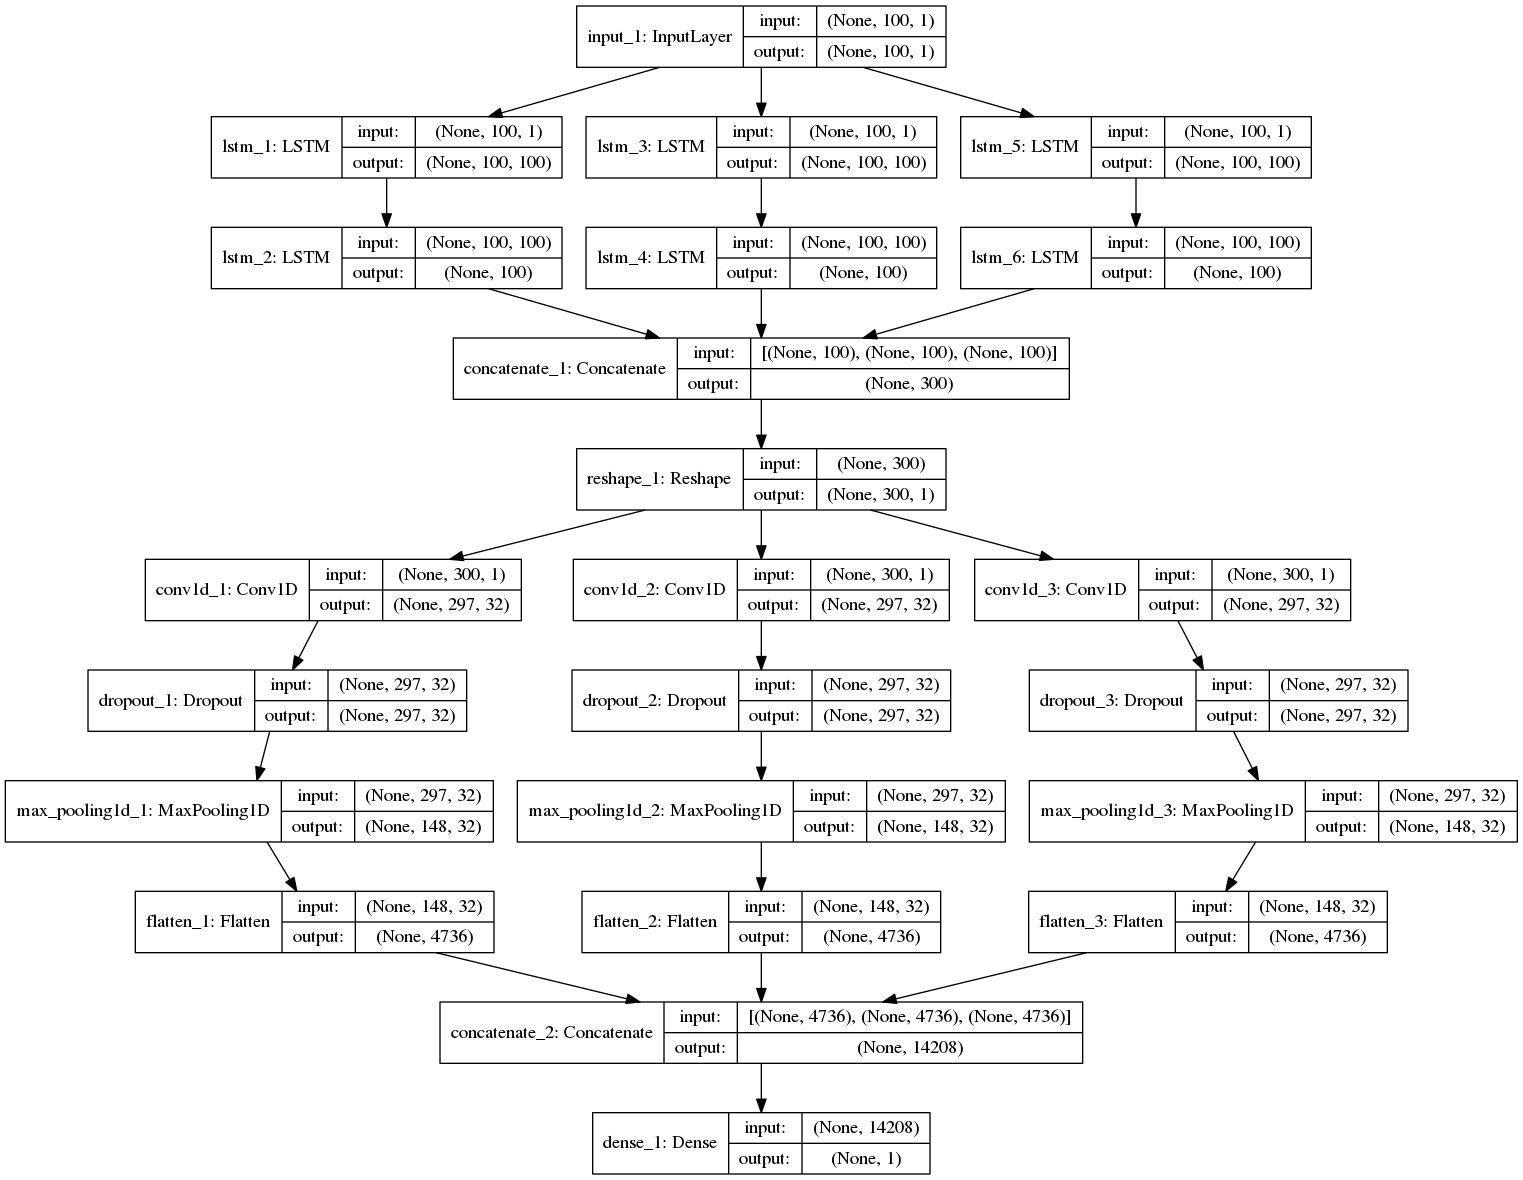
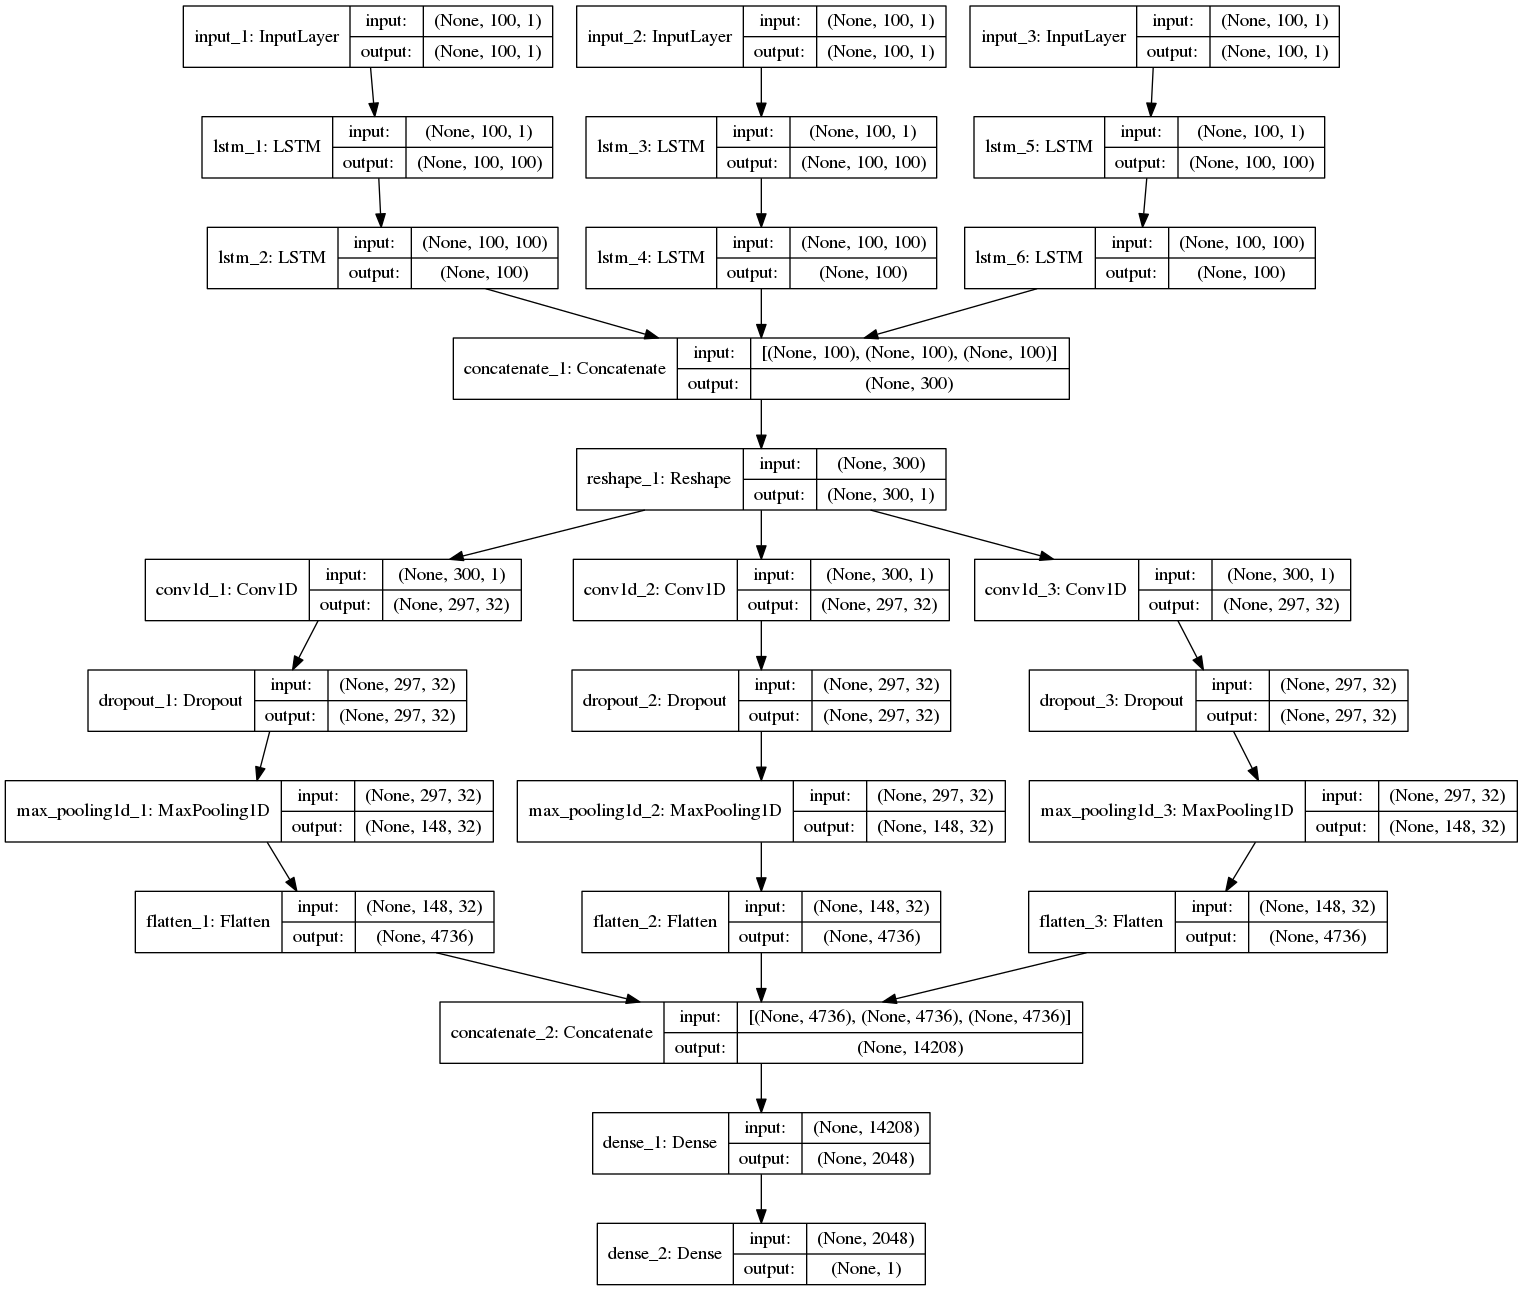
Small change in the model

Changed region(s): [[0.0, 0.0, 1.0, 1.0]]

diff --git a/Aspect_Identification/Aspect_LSTM/3_model_2.py b/Aspect_Identification/Aspect_LSTM/3_model_2.py
@@ -14,15 +14,17 @@ from keras.layers.merge import concatenate
 from keras.layers.recurrent import LSTM
 from keras import backend as K
 
-visible = Input(shape=(100,1))
+visible1 = Input(shape=(100,1))
+visible2 = Input(shape=(100,1))
+visible3 = Input(shape=(100,1))
 
-hidden1 = LSTM(100, return_sequences = True)(visible)
+hidden1 = LSTM(100, return_sequences = True)(visible1)
 hidden2 = LSTM(100)(hidden1)
 
-hidden3 = LSTM(100, return_sequences = True)(visible)
+hidden3 = LSTM(100, return_sequences = True)(visible2)
 hidden4 = LSTM(100)(hidden3)
 
-hidden5 = LSTM(100, return_sequences = True)(visible)
+hidden5 = LSTM(100, return_sequences = True)(visible3)
 hidden6 = LSTM(100)(hidden5)
 
 merge = concatenate([hidden2, hidden4, hidden6])
@@ -45,8 +47,9 @@ flat3 = Flatten()(pool3)
 
 merge = concatenate([flat1, flat2, flat3])
 
-output = Dense(1)(merge)
-model = Model(inputs = visible, outputs = output)
+output = Dense(2048)(merge)
+output = Dense(1)(output)
+model = Model(inputs = [visible1, visible2, visible3], outputs = output)
 
 model.summary()
 plot_model(model, '3_model_2.png' ,show_shapes=True, show_layer_names=True)
